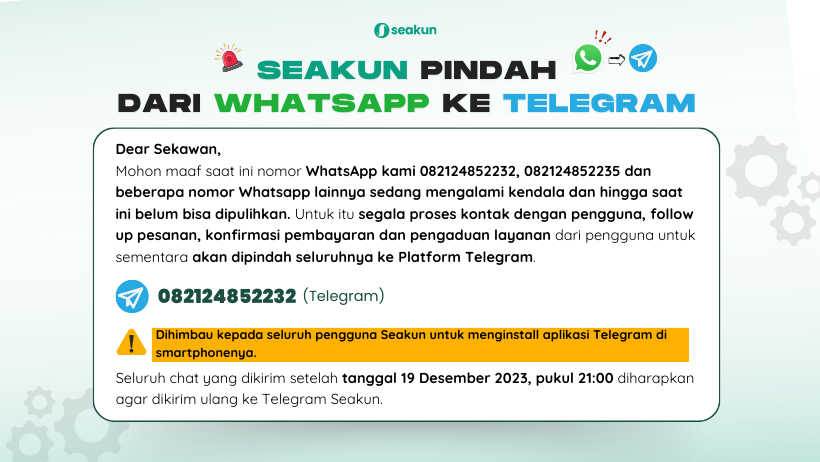
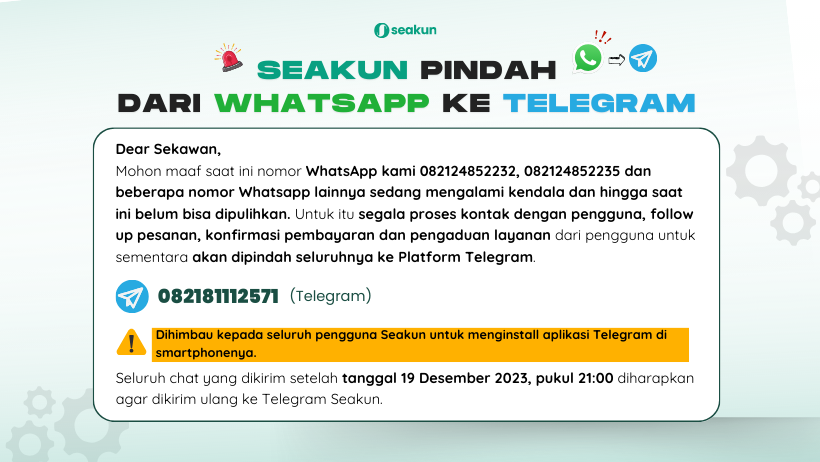
update telegram number

Changed region(s): [[0.7317, 0.8788, 0.9756, 0.9697], [0.2439, 0.6061, 0.4878, 0.6667], [0.2134, 0.9091, 0.4268, 0.9697]]

diff --git a/pages/payment-result/views/SuccessPayment.vue b/pages/payment-result/views/SuccessPayment.vue
@@ -113,8 +113,8 @@
         <p class="tn:mt-4 md:mt-6 lg:mt-8">
           Mohon menunggu 1 x 24 jam, jika melewati rentang waktu tersebut dan
           pesanan kamu belum diproses, harap hubungi admin via telegram
-          <a href="https://t.me/Seakun_id" target="_blank" class="text-primary"
-            >Seakun_id</a
+          <a href="https://t.me/seakunid" target="_blank" class="text-primary"
+            >@seakunid</a
           >.
         </p>
       </div>

diff --git a/pages/thankyou/event-registered/index.vue b/pages/thankyou/event-registered/index.vue
@@ -24,10 +24,10 @@
             <p class="text-center mt-10" style="color: #666666">
               Jika ada kendala segera hubungi ke Telegram
               <a
-                href="https://t.me/Seakun_id"
+                href="https://t.me/seakunid"
                 target="_blank"
                 class="text-green-seakun-dark"
-                >Seakun_id</a
+                >@seakunid</a
               >
             </p>
           </div>

diff --git a/pages/thankyou/index.vue b/pages/thankyou/index.vue
@@ -166,8 +166,8 @@
         <p class="tn:text-center md:text-left md:text-lg text-gray-500">
           Pesanan akan diproses maksimal 1x24 jam. Hubungi Admin melalui
           telegram
-          <a href="https://t.me/Seakun_id" class="text-primary" target="_blank"
-            >Seakun_id</a
+          <a href="https://t.me/seakunid" class="text-primary" target="_blank"
+            >@seakunid</a
           >
         </p>
       </div>

diff --git a/components/mollecules/Footer.vue b/components/mollecules/Footer.vue
@@ -137,7 +137,7 @@
           </div>
           <div class="flex space-x-2">
             <img src="/images/footer/telegram.svg" alt="#" />
-            <a href="https://t.me/Seakun_id">@Seakun_id</a>
+            <a href="https://t.me/seakunid">@seakunid (telegram)</a>
           </div>
           <div class="flex space-x-2 items-start">
             <img class="ml-1" src="/images/footer/time-circle.svg" alt="#" />

diff --git a/components/mollecules/FooterSemabar.vue b/components/mollecules/FooterSemabar.vue
@@ -134,7 +134,7 @@
           </div>
           <div class="flex space-x-2">
             <img src="/images/footer/telegram.svg" alt="#" />
-            <a href="https://t.me/Seakun_id">@Seakun_id</a>
+            <a href="https://t.me/seakunid">@seakunid (telegram)</a>
           </div>
           <div class="flex space-x-2 items-start">
             <img class="ml-1" src="/images/footer/time-circle.svg" alt="#" />

diff --git a/pages/info/maintenance/index.vue b/pages/info/maintenance/index.vue
@@ -20,7 +20,7 @@
         <!-- Kembali aktif lagi Sabtu, 11 November 2023 pukul 06.00 WIB ya. See you! -->
         Kembali aktif lagi siang ini pukul 15.00 WIB ya. See you!
       </p>
-      <a class="w-full" target="_blank" href="https://t.me/Seakun_id">
+      <a class="w-full" target="_blank" href="https://t.me/seakunid">
         <Button
           class="mt-4 w-full !py-4"
           variant="secondary"

diff --git a/components/organisms/WhatsappNoticeBanner/index.vue b/components/organisms/WhatsappNoticeBanner/index.vue
@@ -23,10 +23,10 @@
         <p class="font-light my-2">
           Segala proses pembayaran maupun pengaduan harap diinfokan ke telegram
           <a
-            href="https://t.me/Seakun_id"
+            href="https://t.me/seakunid"
             target="_blank"
             class="text-green-seakun-dark"
-            >Seakun_id</a
+            >@seakunid</a
           >
         </p>
       </div>

diff --git a/components/mollecules/ModalBlackListWarning.vue b/components/mollecules/ModalBlackListWarning.vue
@@ -25,7 +25,7 @@
       <p>
         Jika kamu tetap ingin berlangganan di Seakun, pastikan untuk mengikuti
         syarat yang berlaku dan hubungi admin kami melalui Telegram
-        <a class="text-blue-500" href="https://t.me/Seakun_id">@Seakun_id</a>
+        <a class="text-blue-500" href="https://t.me/seakunid">@seakunid</a>
       </p>
     </div>
   </Modal>

diff --git a/pages/old-order/views/ModalBlackListWarning.vue b/pages/old-order/views/ModalBlackListWarning.vue
@@ -25,7 +25,7 @@
       <p>
         Jika kamu tetap ingin berlangganan di Seakun, pastikan untuk mengikuti
         syarat yang berlaku dan hubungi admin kami melalui Telegram
-        <a class="text-blue-500" href="https://t.me/Seakun_id">Seakun_id</a>
+        <a class="text-blue-500" href="https://t.me/seakunid">@seakunid</a>
       </p>
     </div>
   </Modal>

diff --git a/pages/order/views/ModalBlackListWarning.vue b/pages/order/views/ModalBlackListWarning.vue
@@ -25,7 +25,7 @@
       <p>
         Jika kamu tetap ingin berlangganan di Seakun, pastikan untuk mengikuti
         syarat yang berlaku dan hubungi admin kami melalui Telegram
-        <a class="text-blue-500" href="https://t.me/Seakun_id">Seakun_id</a>
+        <a class="text-blue-500" href="https://t.me/seakunid">@seakunid</a>
       </p>
     </div>
   </Modal>

diff --git a/pages/setitip/order/views/ModalBlackListWarning.vue b/pages/setitip/order/views/ModalBlackListWarning.vue
@@ -25,7 +25,7 @@
       <p>
         Jika kamu tetap ingin berlangganan di Seakun, pastikan untuk mengikuti
         syarat yang berlaku dan hubungi admin kami melalui Telegram
-        <a class="text-blue-500" href="https://t.me/Seakun_id">Seakun_id</a>
+        <a class="text-blue-500" href="https://t.me/seakunid">@seakunid</a>
       </p>
     </div>
   </Modal>

diff --git a/pages/links/index.vue b/pages/links/index.vue
@@ -98,7 +98,7 @@ export default {
   },
   methods: {
     goToTelegram() {
-      window.location.href = 'https://t.me/Seakun_id';
+      window.location.href = 'https://t.me/seakunid';
     },
     goToWhatsapp() {
       window.location.href =
